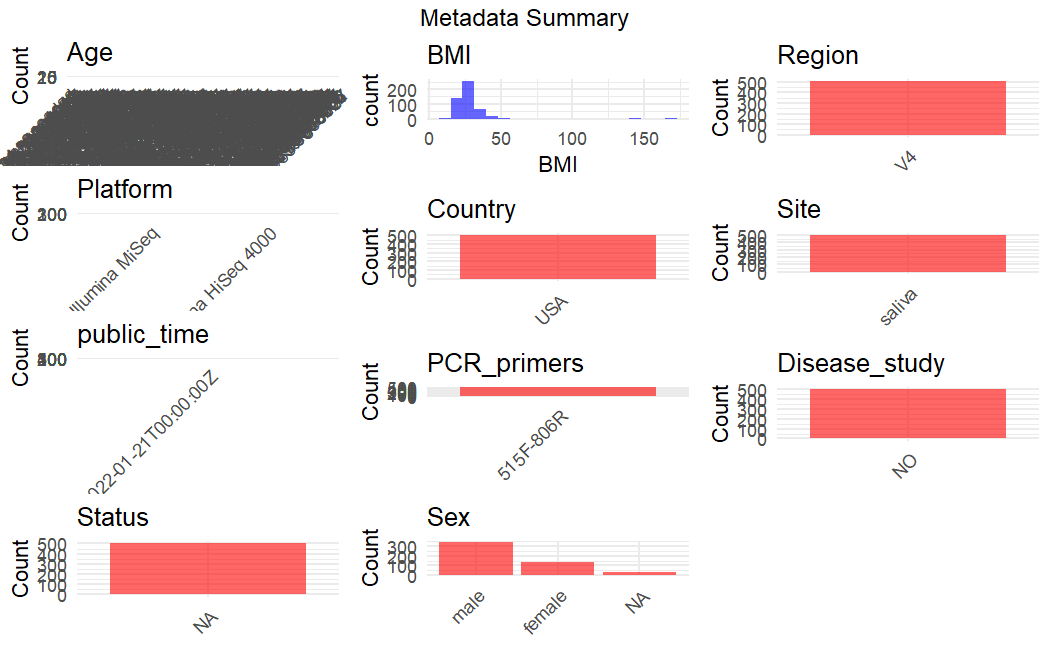
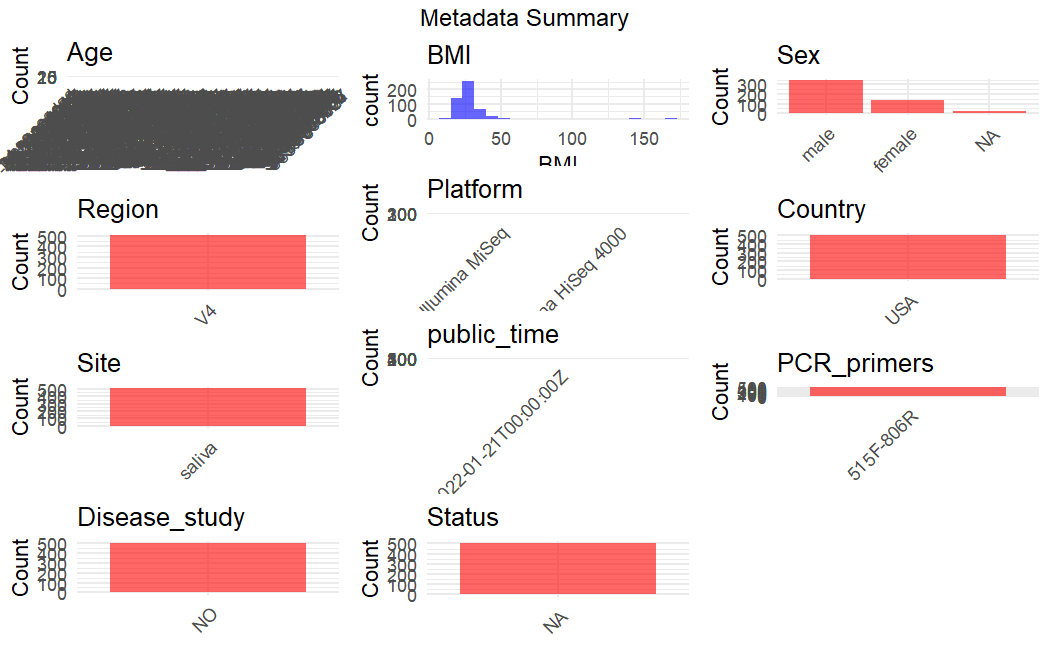
add

diff --git a/PRJEB29169/metadata_curation.md b/PRJEB29169/metadata_curation.md
@@ -63,7 +63,7 @@ metadata <- data.frame(
   sample_name = meta$Sample.Name,
   Age = meta$host_age,  # To be filled Update based on you metadata
   BMI = meta$BMI,  # To be filled based on you metadata
-#  Sex = meta$sex,  # To be filled based on you metadata
+  Sex = meta$sex,  # To be filled based on you metadata
   Region = "V4",  # Update if different for your study
   Platform = meta$Instrument,
   Country = meta$geo_loc_name_country,
